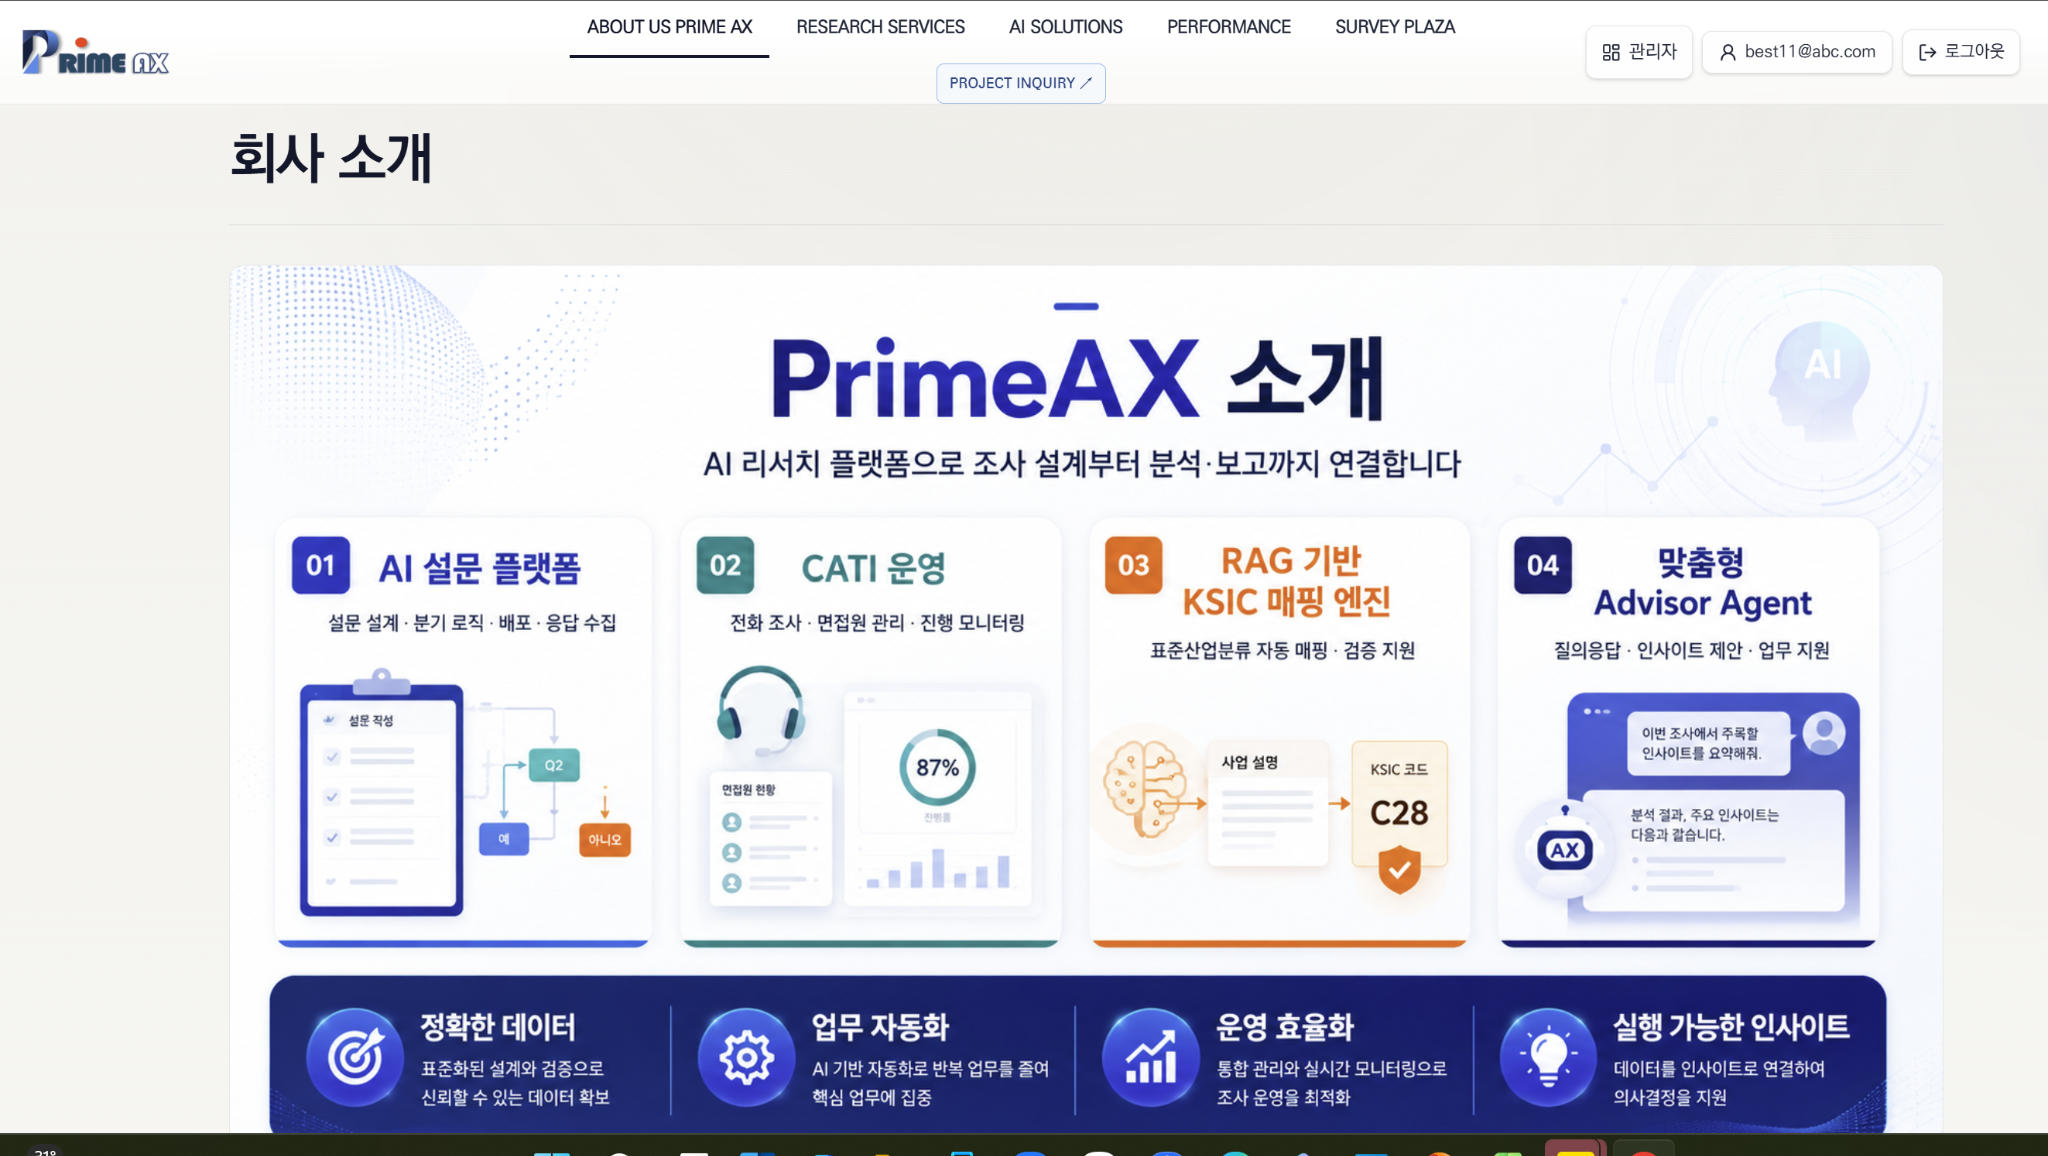
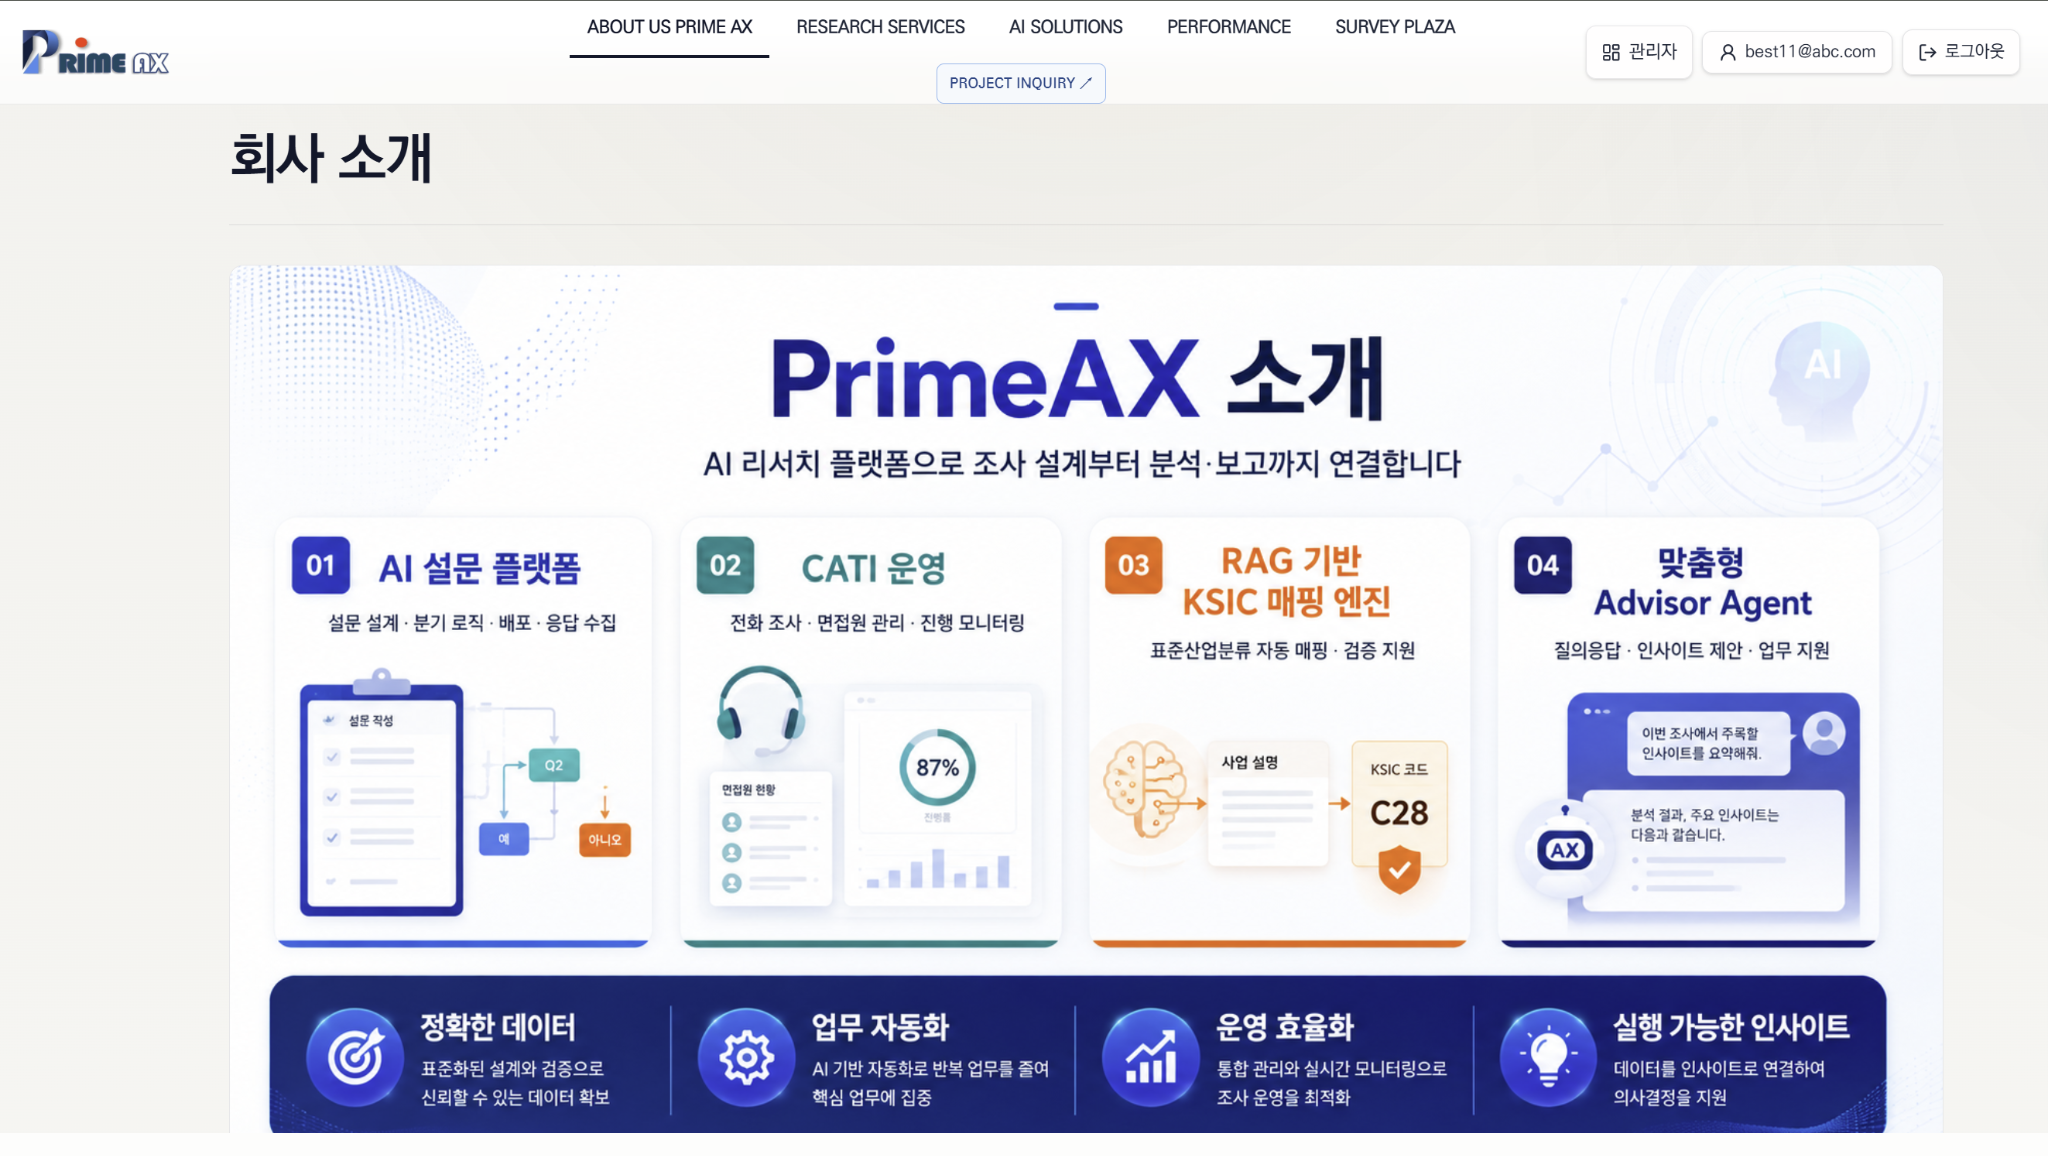
회사소개 이미지 하단 수정

Changed region(s): [[0.0, 0.9654, 1.0, 1.0]]

diff --git a/docs/개발제품-설명-3-4-5.md b/docs/개발제품-설명-3-4-5.md
@@ -1,0 +1,99 @@
+# 개발제품 설명 (양식 3·4·5번)
+
+용역명: AI(RAG) 기반 지능형 산업분류(KSIC) 자동 매핑 로직 및 기본 플랫폼 구축  
+제품명: Research Hub (공개 브랜드: PRIME AX)  
+발주자: 프라임리서치  
+작성 기준: 발주자 확정 운영 방식(KSIC 검색·선택 → 메모 입력 → AI 설문 3안 생성)
+
+아래 문장은 제출 양식 **3) 외관사진 / 4) 작동원리·사용 프로그램 / 5) 주요 기능·차별성**에 그대로 붙여 넣을 수 있습니다.
+
+---
+
+## 3) 개발제품 외관(대표)사진
+
+소프트웨어 제품이므로 **실제 화면 캡처**를 대표사진으로 사용합니다.  
+양식 칸이 1장이면 **사진 1**만, 여러 장이면 1→2→3 순으로 넣습니다.
+
+| 순서 | 넣을 화면 | 사진 아래 캡션 | 저장소 참고 파일 |
+|------|-----------|----------------|------------------|
+| **대표(필수)** | 공개 웹 홈(소개·KSIC 엔진·AXI) | 개발제품 대표화면 — Research Hub 공개 웹 플랫폼 | `public/primeax-home/assets/about-reference-01.png` |
+| 보조 1 | 관리자 「AI 설문 생성」(KSIC 검색·선택 → 메모 → 3안) | 핵심기능 화면 — KSIC 매핑 기반 AI 설문 3안 생성 | 관리자 화면을 직접 캡처 |
+| 보조 2 | 설문 참여 화면 + AXI 플로팅 아이콘 | 현장 안내 화면 — AXI Advisor Agent | `public/primeax-home/upload/AXI최종이미지.png`(아이콘) |
+
+**양식에 적을 한 줄(사진 칸 설명):**  
+본 제품은 웹 기반 소프트웨어로, 별도 하드웨어 외관이 없다. 위 사진은 개발제품의 대표 사용자 화면(공개 웹 플랫폼)이다.
+
+---
+
+## 4) 제품의 작동원리(구조) 및 사용 프로그램
+
+### 붙여넣기용 본문
+
+본 제품은 웹 브라우저에서 동작하는 **조사·설문 통합 플랫폼**이다. 관리자가 한국표준산업분류(KSIC) 코드를 검색·분류표로 직접 선택한 뒤 조사 목적(메모)을 입력하면, 시스템이 해당 업종 지식을 조회(RAG형)하고 외부 KSIC 스냅샷으로 코드를 검증한 다음, 생성형 AI가 **산업 맞춤 설문지 3안**을 산출한다. 채택된 설문은 공개 웹 참여와 CATI(전화조사)로 배포되며, 현장에서는 Advisor Agent(AXI)가 해당 설문의 KSIC·문항·스크립트를 참고해 짧은 안내를 제공한다.
+
+**작동 구조(계층)**
+
+1. 이용 채널: 공개 웹(응답자·조사원) / 관리자 콘솔  
+2. 응용 계층: Next.js 서버 액션으로 권한·입력값을 검증한 뒤 설문 생성·저장·응답 수집을 처리  
+3. 지식·검증 계층: 내부 KSIC DB에서 업종 정의·계층·AI 컨텍스트를 검색하고, 공공데이터(한국무역보험공사 업종등급목록) 스냅샷과 코드를 대조  
+4. 생성 계층: OpenAI 또는 Gemini LLM이 검색된 업종 맥락을 바탕으로 설문 3안·근거·보완 질문을 생성  
+5. 데이터 계층: Supabase(PostgreSQL)에 설문·문항·응답·표본·권한·사이트 설정을 저장(RLS·역할 기반 접근)
+
+**핵심 처리 흐름**
+
+KSIC 검색·선택 → 조사 목적 메모 입력 → 외부 KSIC 매칭 검증 → 업종 지식 조회(RAG형) → AI 설문 3안 생성 → 근거·보완 질문 확인 후 설문 채택 → 배포·응답 수집·분석 / AXI 현장 안내
+
+구조도 첨부 시: `docs/presentation/01-system-architecture.png`
+
+### 사용 프로그램
+
+| 구분 | 프로그램 / 기술 |
+|------|-----------------|
+| 운영체제·실행 | 웹 브라우저 (Chrome 등), Node.js |
+| 응용 프레임워크 | Next.js 15, React 19, TypeScript, Tailwind CSS 4 |
+| 데이터베이스·인증·파일 | Supabase (PostgreSQL, Auth, Storage, RLS) |
+| 생성형 AI | OpenAI(GPT-4o-mini) 또는 Google Gemini(gemini-2.5-flash) |
+| 외부 데이터 | 공공데이터포털 — 한국무역보험공사 업종등급목록(KSIC) |
+| 부가 프로그램 | Microsoft Excel 연동(xlsx), 이메일 발송(SMTP/Nodemailer) |
+| 형상관리·배포 | Git, Vercel |
+
+---
+
+## 5) 주요 기능 및 특징(기존제품과의 차별성 등)
+
+### 붙여넣기용 본문
+
+**주요 기능**
+
+- KSIC 데이터 구조화 및 검색·연관 검색·분류표 선택  
+- 한국무역보험공사 KSIC 코드 매칭 검증  
+- RAG형 업종 지식 조회 기반 **AI 설문지 자동 생성(최대 3안)**  
+- 추천 근거·보완 질문·예외(코드 불일치 등) 안내  
+- 기본 웹 플랫폼: 사업·조사 정보 입력, 설문 참여, 결과 확인, 관리자 콘솔  
+- CATI(전화조사) 표본 배치·컨택 결과·응답 스크립트  
+- AXI(Advisor Agent): 공개 사이트·설문 화면에서 용어·보기·스크립트 즉시 안내  
+- 응답 분석(문항별 빈도 그래프), 엑셀 내려받기, 응답 백업
+
+**특징 및 기존 제품과의 차별성**
+
+일반 설문 도구(구글 폼, 네이버 폼, SurveyMonkey 등)는 문항을 사람이 직접 만들며, **한국 산업분류(KSIC) 지식과 코드 검증이 없다.** 범용 챗봇(ChatGPT 등)에 “설문을 만들어 달라”고만 요청하면 업종이 흐려진 문항이 나오기 쉽고, 선택한 코드가 공식 분류와 일치하는지도 확인하지 못한다.
+
+본 제품은 ① 관리자가 KSIC를 **직접 선택**하고, ② 내부 업종 지식을 **검색·주입(RAG형)** 하며, ③ 공공 업종목록으로 **코드를 검증**한 뒤, ④ 조사 설계 초점이 다른 **설문 3안**을 한 번에 제시한다. 같은 KSIC 맥락은 현장 AXI 안내에도 재사용되어, **설문 설계와 조사 현장이 하나의 산업 지식 축으로 연결**된다. 또한 웹 설문·CATI·사이트 CMS·권한 관리를 한 플랫폼에서 운영할 수 있어, 기존에 설문 작성·전화조사·홈페이지를 따로 쓰던 방식 대비 업무 단절이 줄어든다.
+
+| 비교 항목 | 기존 범용 설문·챗봇 | 본 제품(Research Hub) |
+|-----------|---------------------|------------------------|
+| 산업 맥락 | 없음 또는 자유 텍스트 | KSIC 코드 중심, 업종 지식 검색(RAG형) |
+| 코드 신뢰성 | 검증 없음 | 무역보험공사 KSIC 스냅샷 대조 |
+| 설문 산출 | 1회성 초안 또는 수작업 | 설계 방향이 다른 3안 + 근거·보완 질문 |
+| 현장 지원 | 별도 매뉴얼·메신저 | AXI가 해당 설문 KSIC·스크립트 기준으로 즉시 안내 |
+| 조사 운영 | 웹 설문만, 또는 CATI 별도 시스템 | 웹 참여 + CATI + 관리·분석을 단일 플랫폼 |
+
+---
+
+## 칸이 좁을 때 (초단문)
+
+**3)** 웹 소프트웨어 대표화면(공개 플랫폼 홈). 하드웨어 외관 없음.
+
+**4)** 관리자가 KSIC를 선택하고 조사 목적을 입력하면, 시스템이 업종 지식을 조회·검증한 뒤 AI가 설문 3안을 생성한다. 사용 프로그램: Next.js, React, TypeScript, Supabase(PostgreSQL), OpenAI/Gemini, 공공데이터포털 KSIC API.
+
+**5)** KSIC 매핑·외부 검증·RAG형 설문 3안 생성과 AXI 현장 안내를 한 플랫폼에 결합한 점이 차별점이다. 범용 설문 도구·챗봇은 한국 산업분류 검증과 조사 현장 연계가 없다.
